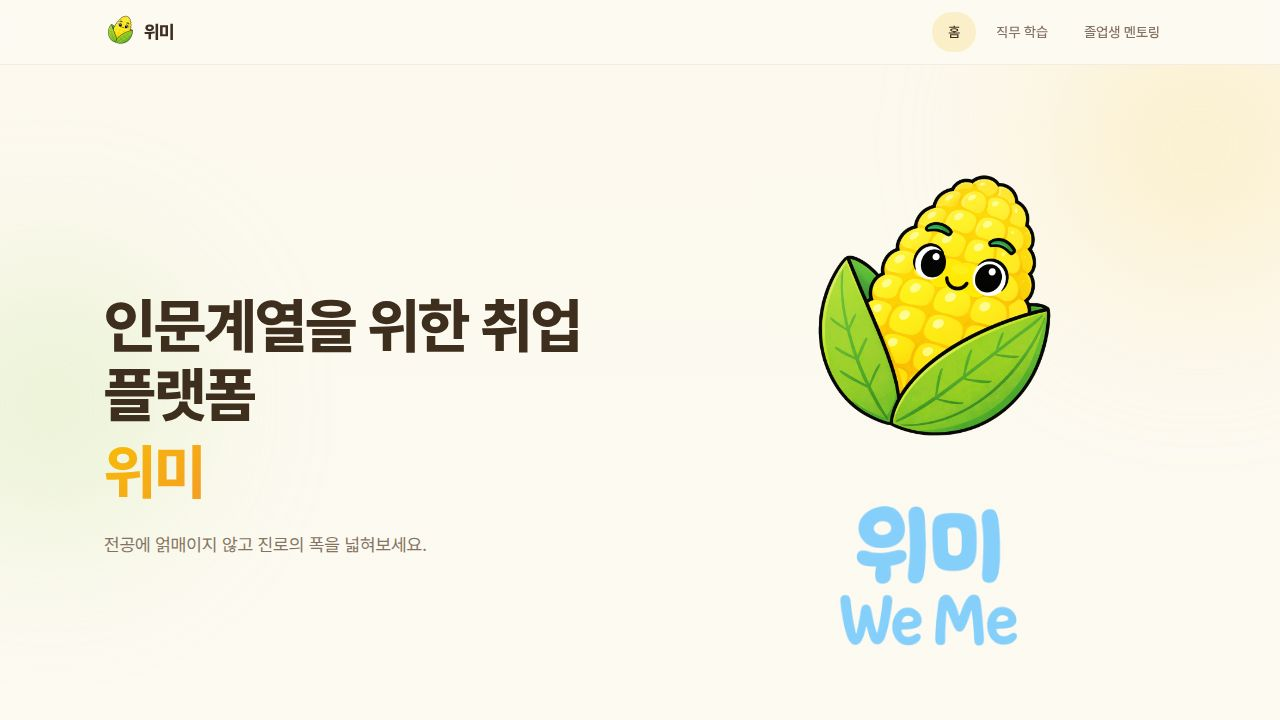
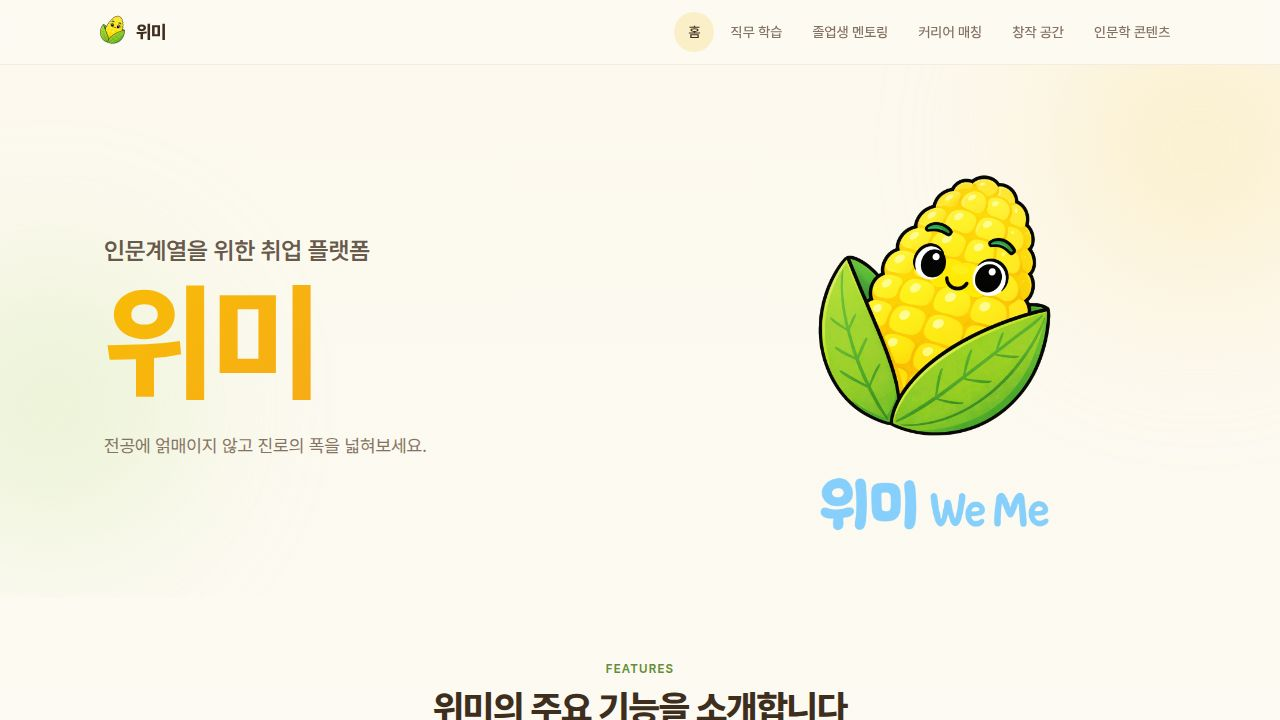
Add admin page and update documentation for new features
Update replit.md to include details about the admin page, API routes for mentor applications, and the backend database schema.

Replit-Commit-Author: Agent
Replit-Commit-Session-Id: 39ad1f9b-f9ed-4fdc-a96d-3a37a53c920b
Replit-Commit-Checkpoint-Type: full_checkpoint
Replit-Commit-Event-Id: 0bf2826d-cb49-446d-a4da-05202bb82f71
Replit-Commit-Screenshot-Url: https://storage.googleapis.com/screenshot-production-us-central1/f7cfa8ac-8d03-4b0a-a882-73eabbb7f79b/39ad1f9b-f9ed-4fdc-a96d-3a37a53c920b/8JfTePU
Replit-Helium-Checkpoint-Created: true

diff --git a/replit.md b/replit.md
@@ -7,21 +7,36 @@
 ## Artifacts
 
 - `wemi` (react-vite, `/`) — 위미 메인 웹 앱
-- `api-server` (express, `/api`) — 공유 API 서버 (현재 healthz만)
+- `api-server` (express, `/api`) — 공유 API 서버 (healthz, mentor-applications)
 - `mockup-sandbox` (`/__mockup`) — 디자인 프로토타이핑 캔버스
 
 ## Pages (wemi)
 
 - `/` — 메인화면 (히어로, 가치 제안, 직무 미리보기, 멘토 미리보기, CTA)
-- `/jobs` — 직무 학습 (검색·카테고리 필터, 카드 그리드)
-- `/mentors` — 졸업생 멘토링 (검색·분야 필터, 카드 그리드)
+- `/jobs`, `/jobs/:id` — 직무 학습
+- `/mentors`, `/mentors/:id` — 졸업생 멘토링 + 멘토 상세/신청 폼
+- `/admin` — 관리자 신청함 (ADMIN_PASSWORD 로그인, localStorage 보관)
+- `/career-match`, `/creative-space`, `/humanities`, `/projects` — 준비중
+
+## Backend
+
+- DB: PostgreSQL (Replit) — `mentor_applications` 테이블 (id, mentorId, name, contact, topic, message, status, createdAt, readAt)
+- 스키마: `lib/db/src/schema/mentor-applications.ts`, push: `pnpm --filter @workspace/db run push`
+- API 계약: `lib/api-spec/openapi.yaml` → `pnpm --filter @workspace/api-spec run codegen`로 `@workspace/api-zod`, `@workspace/api-client-react` 생성
+- 라우트: `artifacts/api-server/src/routes/mentor-applications.ts`
+  - `POST /api/mentor-applications` — 공개, 신청 생성
+  - `GET /api/mentor-applications` — 어드민 (x-admin-password)
+  - `PATCH /api/mentor-applications/:id/status` — 어드민 (read|new 토글)
+- 어드민 인증: `x-admin-password` 헤더, env `ADMIN_PASSWORD` (Secret)
+- `lib/api-zod/src/index.ts`는 generated/types를 `Types` 네임스페이스로 re-export (Zod const와 TS type 이름 충돌 회피)
 
 ## Stack
 
 - pnpm workspaces, Node 24, TypeScript 5.9
 - React + Vite + Tailwind v4 + shadcn/ui + framer-motion + wouter
+- TanStack Query + Orval generated hooks
 - 폰트: Pretendard (CDN)
-- 데이터: mock seed (`src/data/jobs.ts`, `src/data/mentors.ts`) — 백엔드 미사용
+- 시드 데이터: `src/data/jobs.ts`, `src/data/mentors.ts`
 
 ## Layout
 